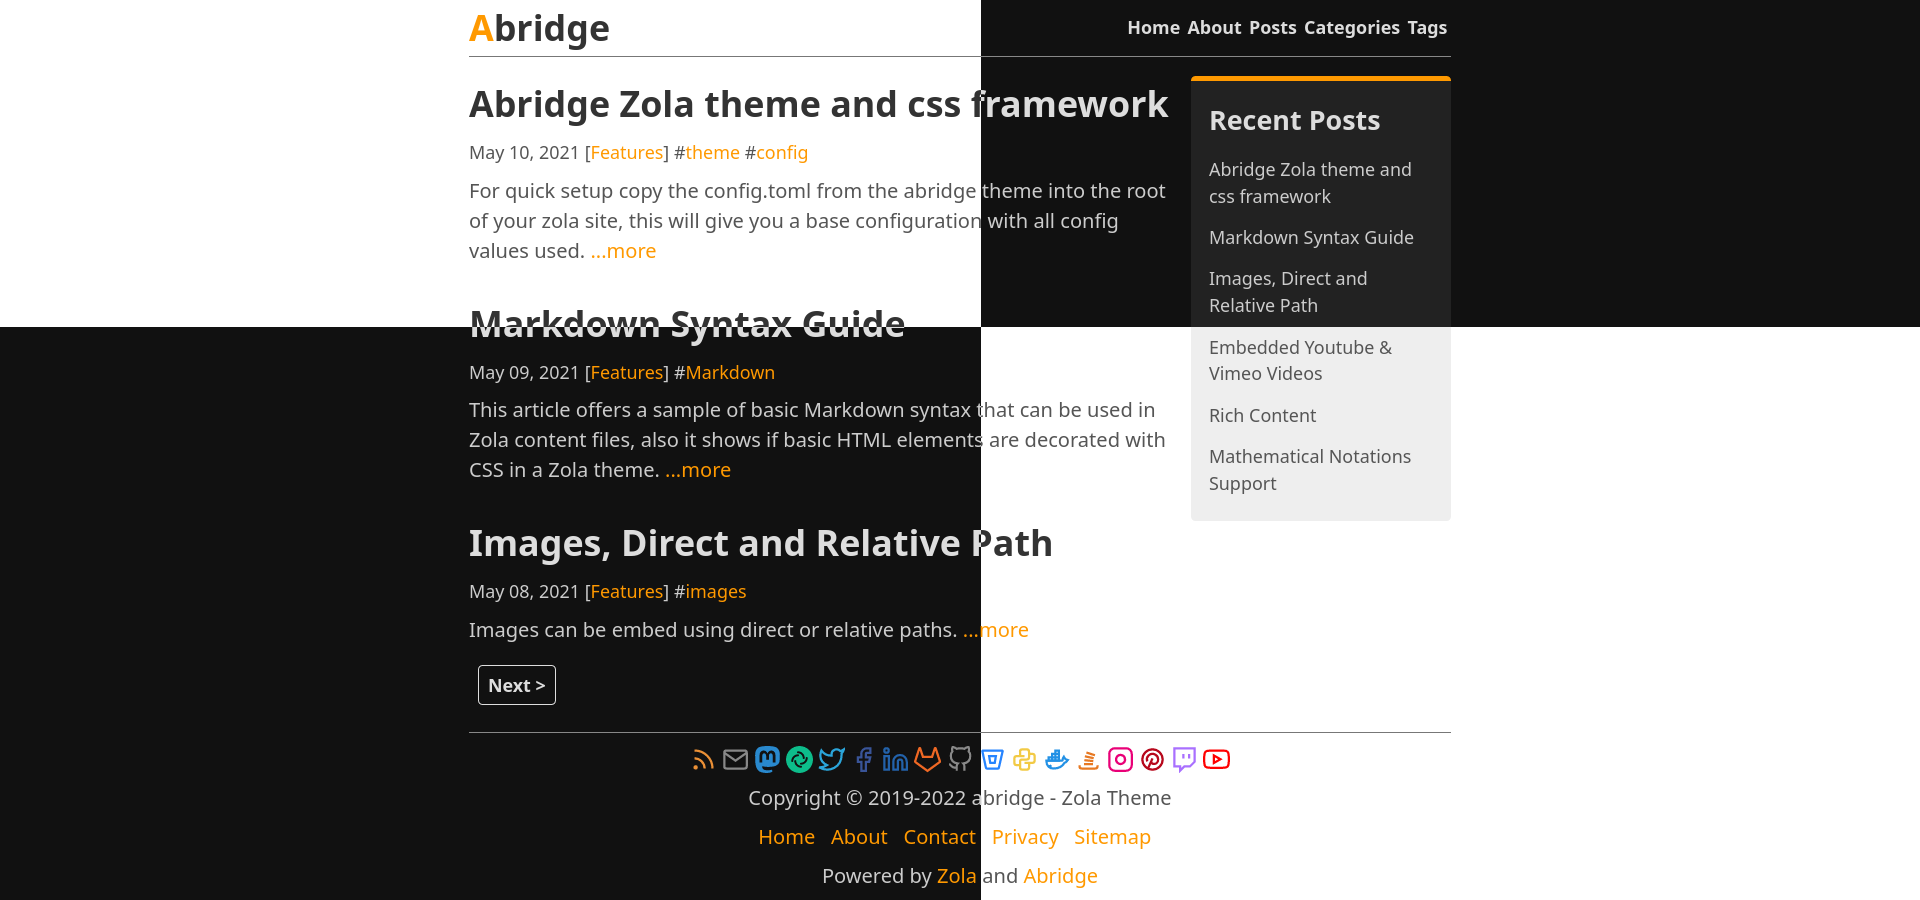
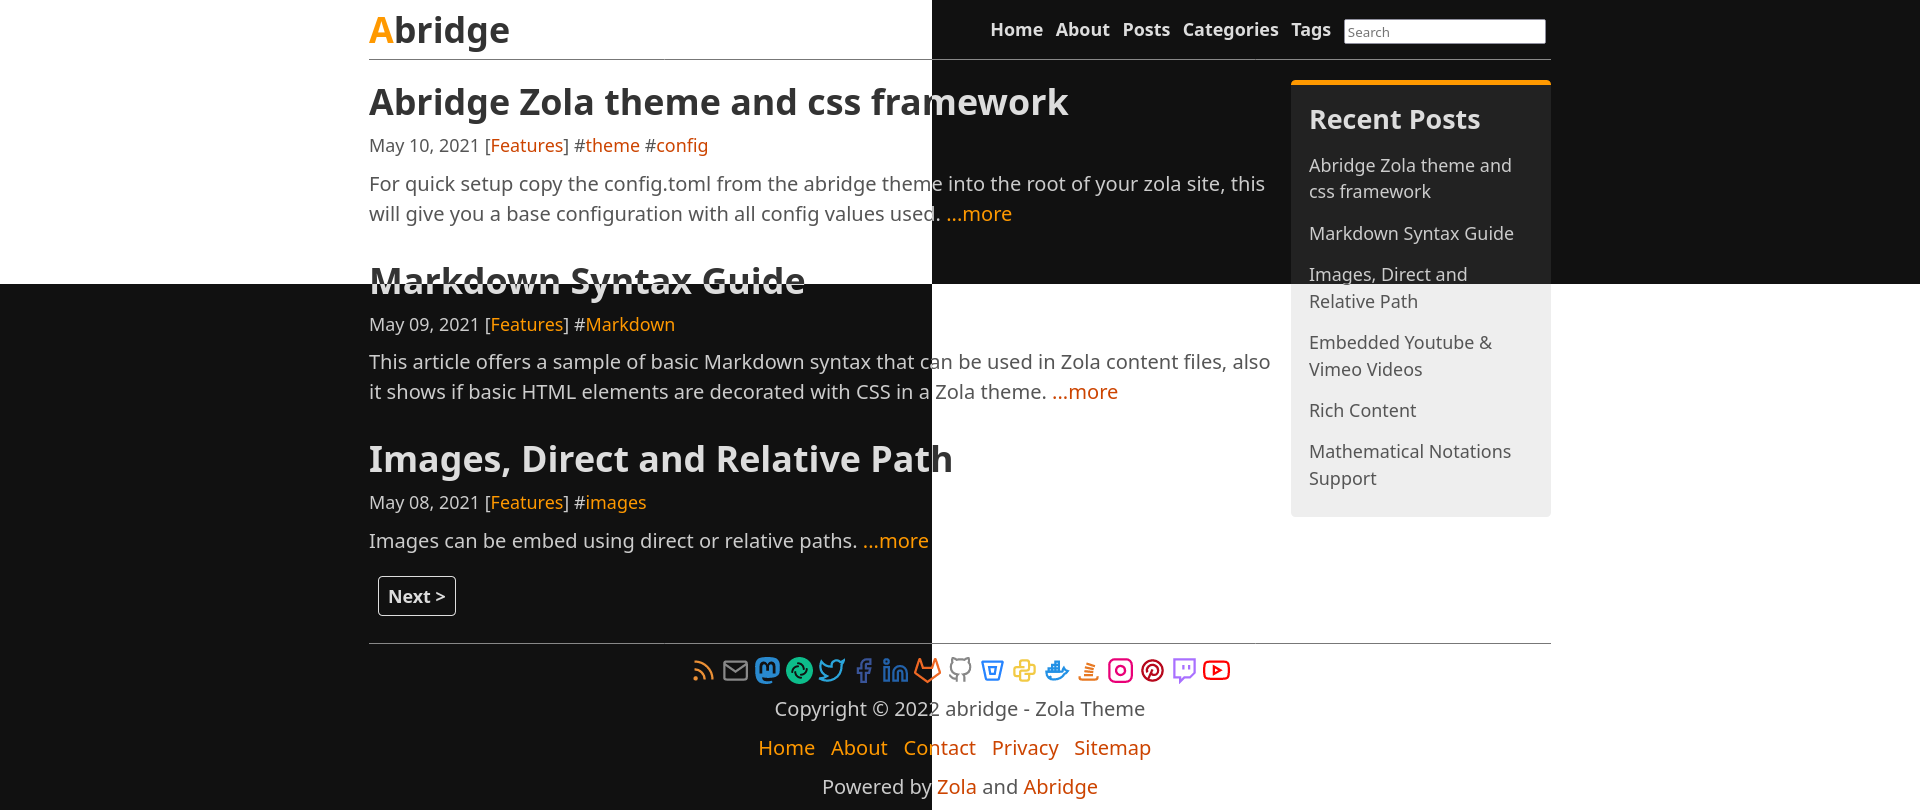
Update themes gallery (#1847)

diff --git a/docs/content/themes/abridge/index.md b/docs/content/themes/abridge/index.md
@@ -3,11 +3,11 @@
 title = "abridge"
 description = "A fast and lightweight Zola theme using semantic html, abridge.css class-light CSS, and No JS."
 template = "theme.html"
-date = 2022-04-23T22:39:45+02:00
+date = 2022-05-02T15:40:10-07:00
 
 [extra]
-created = 2022-04-23T22:39:45+02:00
-updated = 2022-04-23T22:39:45+02:00
+created = 2022-05-02T15:40:10-07:00
+updated = 2022-05-02T15:40:10-07:00
 repository = "https://github.com/Jieiku/abridge.git"
 homepage = "https://github.com/jieiku/abridge"
 minimum_version = "0.14.1"
@@ -21,7 +21,9 @@ homepage = "https://github.com/jieiku"
 
 # Abridge Zola Theme
 
-Abridge is a fast and lightweight Zola theme using semantic html, class-light [abridge.css](https://github.com/jieiku/abridge-css), and No JS.
+Abridge is a fast and lightweight Zola theme using semantic html, class-light [abridge.css](https://github.com/jieiku/abridge.css), and No JS.
+
+![abridge](screenshot.png)
 
 ## Demo
 
@@ -110,6 +112,14 @@ You can customize your configurations, templates and content for yourself. Look
 at the `config.toml`, `content` files, and templates files in this
 repo for an idea.
 
+### Colors and Styles
+
+Colors and style are handled by the sass files of [abridge.css](https://github.com/jieiku/abridge.css)
+
+To change colors of this theme all you need to do is edit `/themes/abridge/sass/themes/_auto.scss`
+then in the root of your site type `zola build` which will regenerate your site, this is similar to what zola serve does, except it does not facilitate serving the site.
+This is also the way you should generate your site to serve it by a real webserver such as nginx.
+
 ### Global Configuration
 
 There are some configuration options that you can customize in `config.toml`.
@@ -130,10 +140,11 @@ Use search function for the content.
 build_search_index = true
 ```
 
-Currently this theme has not yet implemented a search, there are however several themes that have.
-For the moment you can look at how those other themes have implemented their search.
-I plan to implement a search field eventually, but am still weighing my options.
-I would prefer a self hosted search method that works even if javascript is disabled in the browser. (open an issue report if you know of one.)
+The search is the only thing that requires javascript in this this theme.
+
+If you set `build_search_index` to false then the javascript files will no longer be loaded.
+
+The default elasticlunr search is currently used, I may eventually switch this out for something else.
 
 #### Configuration options under the `extra`
 

diff --git a/docs/content/themes/simple-dev-blog/index.md b/docs/content/themes/simple-dev-blog/index.md
@@ -3,11 +3,11 @@
 title = "simple-dev-blog"
 description = "A simple dev blog theme with no javascript, prerendered linked pages and SEO tags."
 template = "theme.html"
-date = 2022-04-23T22:39:45+02:00
+date = 2022-05-02T15:40:10-07:00
 
 [extra]
-created = 2022-04-23T22:39:45+02:00
-updated = 2022-04-23T22:39:45+02:00
+created = 2022-05-02T15:40:10-07:00
+updated = 2022-05-02T15:40:10-07:00
 repository = "https://github.com/bennetthardwick/simple-dev-blog-zola-starter.git"
 homepage = "https://github.com/bennetthardwick/simple-dev-blog-zola-starter"
 minimum_version = "0.4.0"

diff --git a/docs/content/themes/docsascode-theme/index.md b/docs/content/themes/docsascode-theme/index.md
@@ -3,11 +3,11 @@
 title = "Docsascode_theme"
 description = "A modern simple Zola's theme related to docs as code methodology"
 template = "theme.html"
-date = 2022-04-23T22:39:45+02:00
+date = 2022-05-02T15:40:10-07:00
 
 [extra]
-created = 2022-04-23T22:39:45+02:00
-updated = 2022-04-23T22:39:45+02:00
+created = 2022-05-02T15:40:10-07:00
+updated = 2022-05-02T15:40:10-07:00
 repository = "https://github.com/codeandmedia/zola_docsascode_theme.git"
 homepage = "https://github.com/codeandmedia/zola_docsascode_theme"
 minimum_version = "0.10.0"

diff --git a/docs/content/themes/DeepThought/index.md b/docs/content/themes/DeepThought/index.md
@@ -3,11 +3,11 @@
 title = "DeepThought"
 description = "A simple blog theme focused on writing powered by Bulma and Zola."
 template = "theme.html"
-date = 2022-04-23T22:39:45+02:00
+date = 2022-05-02T15:40:10-07:00
 
 [extra]
-created = 2022-04-23T22:39:45+02:00
-updated = 2022-04-23T22:39:45+02:00
+created = 2022-05-02T15:40:10-07:00
+updated = 2022-05-02T15:40:10-07:00
 repository = "https://github.com/RatanShreshtha/DeepThought.git"
 homepage = "https://github.com/RatanShreshtha/DeepThought"
 minimum_version = "0.9.0"

diff --git a/docs/content/themes/tale-zola/index.md b/docs/content/themes/tale-zola/index.md
@@ -3,11 +3,11 @@
 title = "tale-zola"
 description = "Tala-Zola is a minimal Zola theme helping you to build a nice and seo-ready blog."
 template = "theme.html"
-date = 2022-04-23T22:39:45+02:00
+date = 2022-05-02T15:40:10-07:00
 
 [extra]
-created = 2022-04-23T22:39:45+02:00
-updated = 2022-04-23T22:39:45+02:00
+created = 2022-05-02T15:40:10-07:00
+updated = 2022-05-02T15:40:10-07:00
 repository = "https://github.com/aaranxu/tale-zola.git"
 homepage = "https://github.com/aaranxu/tale-zola"
 minimum_version = "0.13.0"

diff --git a/docs/content/themes/zola_easydocs_theme/index.md b/docs/content/themes/zola_easydocs_theme/index.md
@@ -3,11 +3,11 @@
 title = "EasyDocs"
 description = "An easy way to create docs for your project"
 template = "theme.html"
-date = 2022-04-23T22:39:45+02:00
+date = 2022-05-02T15:40:10-07:00
 
 [extra]
-created = 2022-04-23T22:39:45+02:00
-updated = 2022-04-23T22:39:45+02:00
+created = 2022-05-02T15:40:10-07:00
+updated = 2022-05-02T15:40:10-07:00
 repository = "https://github.com/codeandmedia/zola_easydocs_theme.git"
 homepage = "https://github.com/codeandmedia/zola_easydocs_theme"
 minimum_version = "0.13.0"

diff --git a/docs/content/themes/sam/index.md b/docs/content/themes/sam/index.md
@@ -3,11 +3,11 @@
 title = "sam"
 description = "A Simple and Minimalist theme with a focus on typography and content."
 template = "theme.html"
-date = 2022-04-23T22:39:45+02:00
+date = 2022-05-02T15:40:10-07:00
 
 [extra]
-created = 2022-04-23T22:39:45+02:00
-updated = 2022-04-23T22:39:45+02:00
+created = 2022-05-02T15:40:10-07:00
+updated = 2022-05-02T15:40:10-07:00
 repository = "https://github.com/janbaudisch/zola-sam.git"
 homepage = "https://github.com/janbaudisch/zola-sam"
 minimum_version = "0.4.0"

diff --git a/docs/content/themes/zola-theme-course/index.md b/docs/content/themes/zola-theme-course/index.md
@@ -3,11 +3,11 @@
 title = "Course"
 description = "A zola theme designed for online courses or tutorials"
 template = "theme.html"
-date = 2022-04-23T22:39:45+02:00
+date = 2022-05-02T15:40:10-07:00
 
 [extra]
-created = 2022-04-23T22:39:45+02:00
-updated = 2022-04-23T22:39:45+02:00
+created = 2022-05-02T15:40:10-07:00
+updated = 2022-05-02T15:40:10-07:00
 repository = "https://github.com/elegaanz/zola-theme-course.git"
 homepage = "https://github.com/elegaanz/zola-theme-course"
 minimum_version = "0.15.0"

diff --git a/docs/content/themes/clean-blog/index.md b/docs/content/themes/clean-blog/index.md
@@ -3,11 +3,11 @@
 title = "Clean Blog"
 description = "A port of Start Bootstrap Clean Blog for Zola"
 template = "theme.html"
-date = 2022-04-23T22:39:45+02:00
+date = 2022-05-02T15:40:10-07:00
 
 [extra]
-created = 2022-04-23T22:39:45+02:00
-updated = 2022-04-23T22:39:45+02:00
+created = 2022-05-02T15:40:10-07:00
+updated = 2022-05-02T15:40:10-07:00
 repository = "https://github.com/dave-tucker/zola-clean-blog.git"
 homepage = "https://github.com/dave-tucker/zola-clean-blog"
 minimum_version = "0.4.0"

diff --git a/docs/content/themes/adidoks/index.md b/docs/content/themes/adidoks/index.md
@@ -3,11 +3,11 @@
 title = "adidoks"
 description = "AdiDoks is a Zola theme helping you build modern documentation."
 template = "theme.html"
-date = 2022-04-23T22:39:45+02:00
+date = 2022-05-02T15:40:10-07:00
 
 [extra]
-created = 2022-04-23T22:39:45+02:00
-updated = 2022-04-23T22:39:45+02:00
+created = 2022-05-02T15:40:10-07:00
+updated = 2022-05-02T15:40:10-07:00
 repository = "https://github.com/aaranxu/adidoks.git"
 homepage = "https://github.com/aaranxu/adidoks"
 minimum_version = "0.13.0"

diff --git a/docs/content/themes/anatole-zola/index.md b/docs/content/themes/anatole-zola/index.md
@@ -3,11 +3,11 @@
 title = "anatole-zola"
 description = "A port of farbox-theme-Anatole for zola"
 template = "theme.html"
-date = 2022-04-23T22:39:45+02:00
+date = 2022-05-02T15:40:10-07:00
 
 [extra]
-created = 2022-04-23T22:39:45+02:00
-updated = 2022-04-23T22:39:45+02:00
+created = 2022-05-02T15:40:10-07:00
+updated = 2022-05-02T15:40:10-07:00
 repository = "https://github.com/longfangsong/anatole-zola.git"
 homepage = "https://github.com/longfangsong/anatole-zola"
 minimum_version = "0.4.0"

diff --git a/docs/content/themes/lightspeed/index.md b/docs/content/themes/lightspeed/index.md
@@ -3,11 +3,11 @@
 title = "lightspeed"
 description = "Zola theme with a perfect Lighthouse score"
 template = "theme.html"
-date = 2022-04-23T22:39:45+02:00
+date = 2022-05-02T15:40:10-07:00
 
 [extra]
-created = 2022-04-23T22:39:45+02:00
-updated = 2022-04-23T22:39:45+02:00
+created = 2022-05-02T15:40:10-07:00
+updated = 2022-05-02T15:40:10-07:00
 repository = "https://github.com/carpetscheme/lightspeed.git"
 homepage = "https://github.com/carpetscheme/lightspeed"
 minimum_version = "0.10.0"
